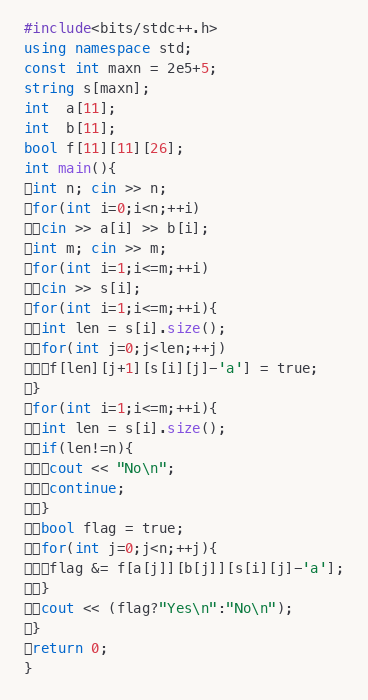
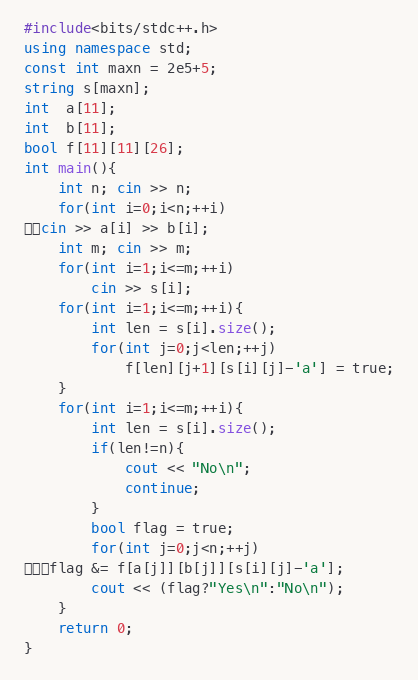
Update ABC452 C.cpp code (fix indentation)

Changed region(s): [[0.0598, 0.0309, 0.9266, 0.9574], [0.8967, 0.8029, 0.9266, 0.8338], [0.837, 0.8029, 0.8668, 0.8338]]

diff --git a/ABC452/c.cpp b/ABC452/c.cpp
@@ -8,28 +8,27 @@ int  b[11];
 bool f[11][11][26];
 
 int main(){
-	int n; cin >> n;
-	for(int i=0;i<n;++i)
+    int n; cin >> n;
+    for(int i=0;i<n;++i)
 		cin >> a[i] >> b[i];
-	int m; cin >> m;
-	for(int i=1;i<=m;++i)
-		cin >> s[i];
-	for(int i=1;i<=m;++i){
-		int len = s[i].size();
-		for(int j=0;j<len;++j)
-			f[len][j+1][s[i][j]-'a'] = true;
-	}
-	for(int i=1;i<=m;++i){
-		int len = s[i].size();
-		if(len!=n){
-			cout << "No\n";
-			continue;
-		}
-		bool flag = true;
-		for(int j=0;j<n;++j){
+    int m; cin >> m;
+    for(int i=1;i<=m;++i)
+        cin >> s[i];
+    for(int i=1;i<=m;++i){
+        int len = s[i].size();
+        for(int j=0;j<len;++j)
+            f[len][j+1][s[i][j]-'a'] = true;
+    }
+    for(int i=1;i<=m;++i){
+        int len = s[i].size();
+        if(len!=n){
+            cout << "No\n";
+            continue;
+        }
+        bool flag = true;
+        for(int j=0;j<n;++j)
 			flag &= f[a[j]][b[j]][s[i][j]-'a'];
-		}
-		cout << (flag?"Yes\n":"No\n");
-	}
-	return 0;
+        cout << (flag?"Yes\n":"No\n");
+    }
+    return 0;
 }
